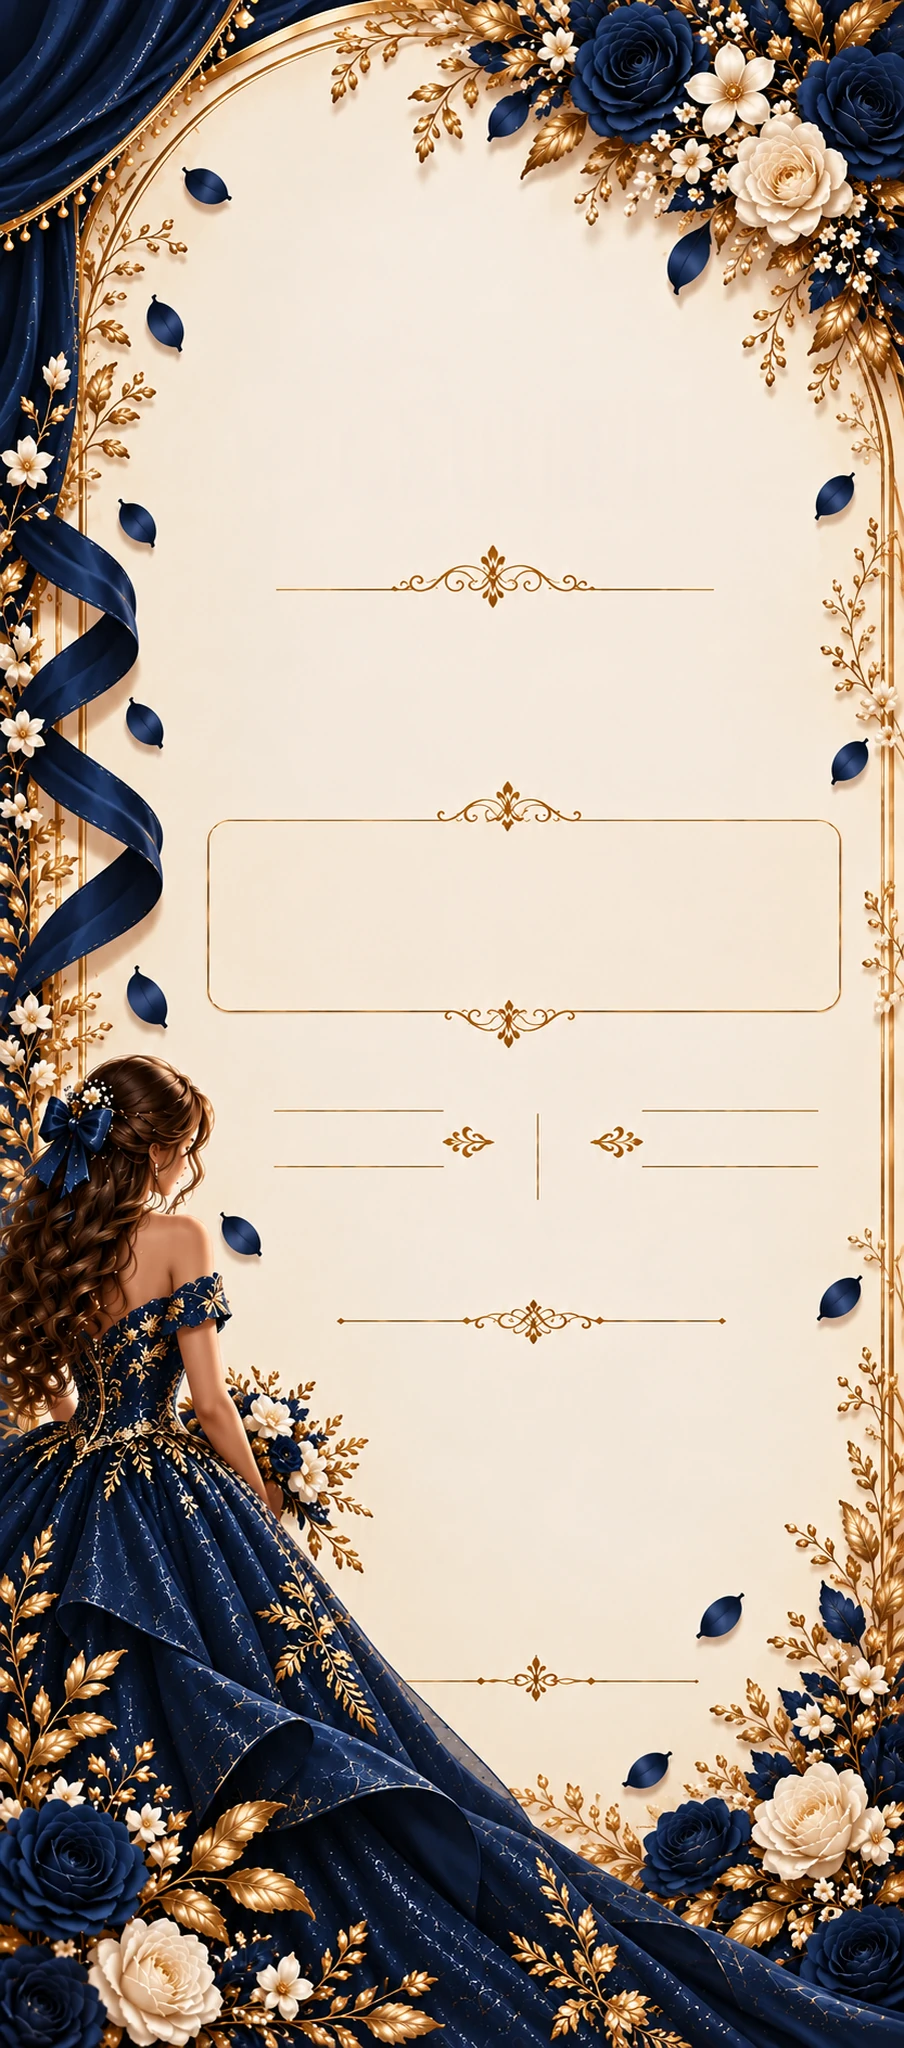
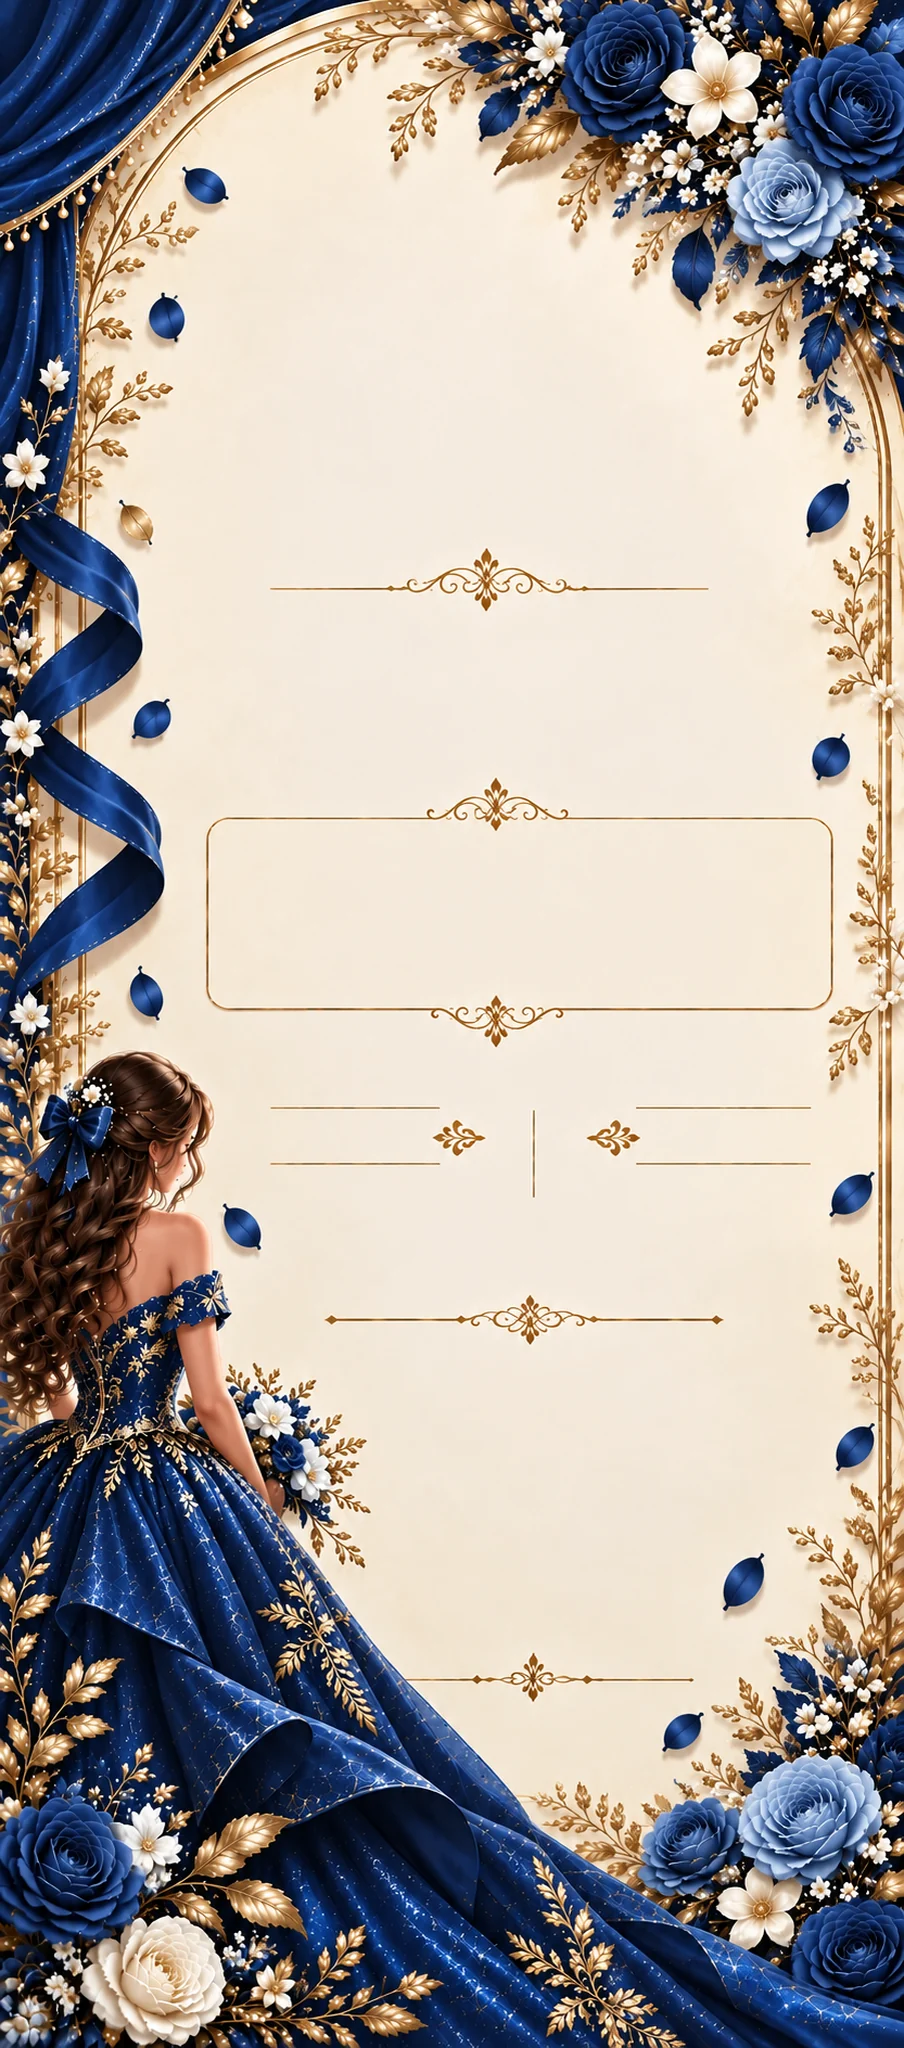
Add files via upload

diff --git a/index.html b/index.html
@@ -19,7 +19,7 @@
 <link rel="preconnect" href="https://fonts.gstatic.com" crossorigin>
 <link href="https://fonts.googleapis.com/css2?family=Cinzel:wght@500;600;700&family=Great+Vibes&family=Playfair+Display:wght@700&family=Lora:ital,wght@1,600;1,700&display=swap" rel="stylesheet">
 <style>
-  :root{color-scheme:light;--vino:#1b2b5e;--marino:#14224d;--oro:#b88a3b;--tinta:#1e2846;
+  :root{color-scheme:light;--vino:#183a86;--marino:#14224d;--oro:#b88a3b;--tinta:#1e2846;
     --caps:"Cinzel",Georgia,"Times New Roman",serif;--script:"Great Vibes","Snell Roundhand","Brush Script MT",cursive}
   html,body{margin:0;background:#0d1733}
   body{min-height:100dvh;-webkit-font-smoothing:antialiased;text-rendering:optimizeLegibility}
@@ -40,8 +40,8 @@
   #fal{left:57.9%;top:calc(849/var(--H)*100%);font-size:2.2cqw;letter-spacing:.4em;margin-left:.2em;font-weight:700}
   #gra{left:57.9%;top:calc(884/var(--H)*100%);font-size:5.8cqw}
   #dic{left:59.7%;top:calc(1066/var(--H)*100%);font-size:2.7cqw;letter-spacing:.14em;font-weight:700}
-  #sab{left:38.3%;top:calc(1139/var(--H)*100%);font-size:2.5cqw;letter-spacing:.05em;font-weight:700}
-  #sab b{font:700 4.1cqw/1 "Playfair Display",Georgia,serif;color:#9a6a1c;vertical-align:-.1em;margin-left:.2em}
+  #sab{left:37.6%;top:calc(1139/var(--H)*100%);font-size:2.7cqw;letter-spacing:.06em;font-weight:700}
+  #sab b{font:inherit;color:inherit;margin-left:.3em}
   #hor{left:80.8%;top:calc(1139/var(--H)*100%);font-size:2.8cqw;letter-spacing:.04em;font-weight:700}
 
   /* cuenta regresiva */
@@ -58,7 +58,7 @@
   /* botones */
   .btn{position:absolute;top:calc(1360/var(--H)*100%);height:calc(62/var(--H)*100%);box-sizing:border-box;display:flex;align-items:center;justify-content:center;gap:1.4cqw;
     text-decoration:none;color:#fff3dc;font:700 2.2cqw/1.3 var(--caps);letter-spacing:.05em;text-transform:uppercase;text-align:left;
-    background:linear-gradient(180deg,#2b4384 0%,#18295a 55%,#0f1a3d 100%);border:.4cqw solid #c9a24b;border-radius:999px;
+    background:linear-gradient(180deg,#3159b8 0%,#1d3f92 55%,#122c6c 100%);border:.4cqw solid #c9a24b;border-radius:999px;
     box-shadow:0 .6cqw 1.6cqw rgba(10,20,50,.35),inset 0 .2cqw .4cqw rgba(255,226,170,.35)}
   .btn svg{width:4.4cqw;height:4.4cqw;fill:#f3d89b;flex:none}
   #b1{left:42.4%;width:24.4%}#b2{left:68.2%;width:25%}
@@ -67,7 +67,7 @@
   .col{top:calc(1478/var(--H)*100%);font-size:2.2cqw;letter-spacing:.08em;line-height:1.55;font-weight:700}
   .pill{position:absolute;top:calc(1530/var(--H)*100%);height:calc(38/var(--H)*100%);box-sizing:border-box;border:.35cqw solid #c9a24b;border-radius:999px;
     display:flex;align-items:center;justify-content:center;background:rgba(255,248,235,.75)}
-  .pill::after{content:"\203A";display:grid;place-items:center;width:3.4cqw;height:3.4cqw;border-radius:50%;background:#1b2b5e;color:#f3d89b;font:700 3cqw/1 Georgia,serif;padding-bottom:.3cqw;box-sizing:border-box}
+  .pill::after{content:"\203A";display:grid;place-items:center;width:3.4cqw;height:3.4cqw;border-radius:50%;background:#1d3f92;color:#f3d89b;font:700 3cqw/1 Georgia,serif;padding-bottom:.3cqw;box-sizing:border-box}
   #p1{left:49.5%;width:16%}#p2{left:71.6%;width:16%}
   #esp{left:59.3%;top:calc(1634/var(--H)*100%);font-size:7cqw}
   a:focus-visible{outline:2px solid #f3d89b;outline-offset:2px}
@@ -83,15 +83,15 @@
   #vest .dot::after{content:"";position:absolute;inset:-4px;border-radius:50%;
     background:linear-gradient(45deg,transparent calc(50% - 2.5px),#3b2a2a calc(50% - 2.5px) calc(50% + 2.5px),transparent calc(50% + 2.5px));
     box-shadow:0 0 0 2.5px #3b2a2a inset;box-sizing:border-box}
-  #vest .azul{background:radial-gradient(circle at 35% 30%,#33508f,#101c42)}
+  #vest .azul{background:radial-gradient(circle at 35% 30%,#3a63c4,#14307a)}
   #vest .oro{background:radial-gradient(circle at 35% 30%,#f0d58b,#b88a3b)}
   #vest small{display:block;font:italic 16px/1.4 Georgia,serif;text-transform:none;letter-spacing:0;color:#4a4f66;margin-bottom:16px}
   #vest button{font:700 14px var(--caps);letter-spacing:.12em;text-transform:uppercase;color:#f8ead0;border:2px solid #c9a24b;border-radius:999px;
-    background:linear-gradient(180deg,#2b4384,#0f1a3d);padding:10px 26px;cursor:pointer}
+    background:linear-gradient(180deg,#3159b8,#122c6c);padding:10px 26px;cursor:pointer}
 
   /* ===== botón de música ===== */
   #musBtn{position:fixed;z-index:40;right:max(14px,calc(50% - 240px + 14px));top:calc(12px + env(safe-area-inset-top,0px));
-    width:40px;height:40px;border-radius:50%;border:2px solid #c9a24b;background:linear-gradient(180deg,#2b4384,#0f1a3d);
+    width:40px;height:40px;border-radius:50%;border:2px solid #c9a24b;background:linear-gradient(180deg,#3159b8,#122c6c);
     box-shadow:0 6px 18px rgba(0,0,0,.4);display:flex;align-items:flex-end;justify-content:center;gap:3px;padding:0 0 11px;box-sizing:border-box;cursor:pointer;
     opacity:0;pointer-events:none;transition:opacity .6s}
   html.revealed #musBtn{opacity:1;pointer-events:auto}
@@ -326,8 +326,8 @@
   <h2 id="vt">Código de vestimenta</h2>
   <div class="formal">Formal</div>
   <p>Colores exclusivos</p>
-  <div class="dots"><span class="dot azul" role="img" aria-label="Azul marino, no usar"></span><span class="dot oro" role="img" aria-label="Dorado, no usar"></span></div>
-  <small>Los colores <b style="color:var(--vino)">azul marino</b> y <b style="color:#9a6a1c">dorado</b> son exclusivos para la quinceañera. Te pedimos amablemente no usarlos.</small>
+  <div class="dots"><span class="dot azul" role="img" aria-label="Azul rey, no usar"></span><span class="dot oro" role="img" aria-label="Dorado, no usar"></span></div>
+  <small>Los colores <b style="color:var(--vino)">azul rey</b> y <b style="color:#9a6a1c">dorado</b> son exclusivos para la quinceañera. Te pedimos amablemente no usarlos.</small>
   <button type="button" onclick="vest.close()">Cerrar</button>
 </dialog>
 <dialog id="reg" aria-labelledby="rt">
@@ -411,7 +411,7 @@
   }
 
   /* --- pétalos azul marino, marfil y dorado --- */
-  var COLORES=[["#2c4588","#0f1a3d"],["#2c4588","#0f1a3d"],["#2c4588","#0f1a3d"],["#fffaf0","#e9d8bb"],["#f0d58b","#b88a3b"]];
+  var COLORES=[["#3a63c4","#16337e"],["#3a63c4","#16337e"],["#3a63c4","#16337e"],["#fffaf0","#e9d8bb"],["#f0d58b","#b88a3b"]];
   function nuevoPetalo(arriba){
     var c=COLORES[Math.floor(Math.random()*COLORES.length)], s=rnd(7,12)*(IW/400), vh=window.innerHeight||700;
     // entrada: caen desde arriba de la invitación; después: aparecen en cualquier parte, bajan un tramo y se desvanecen
